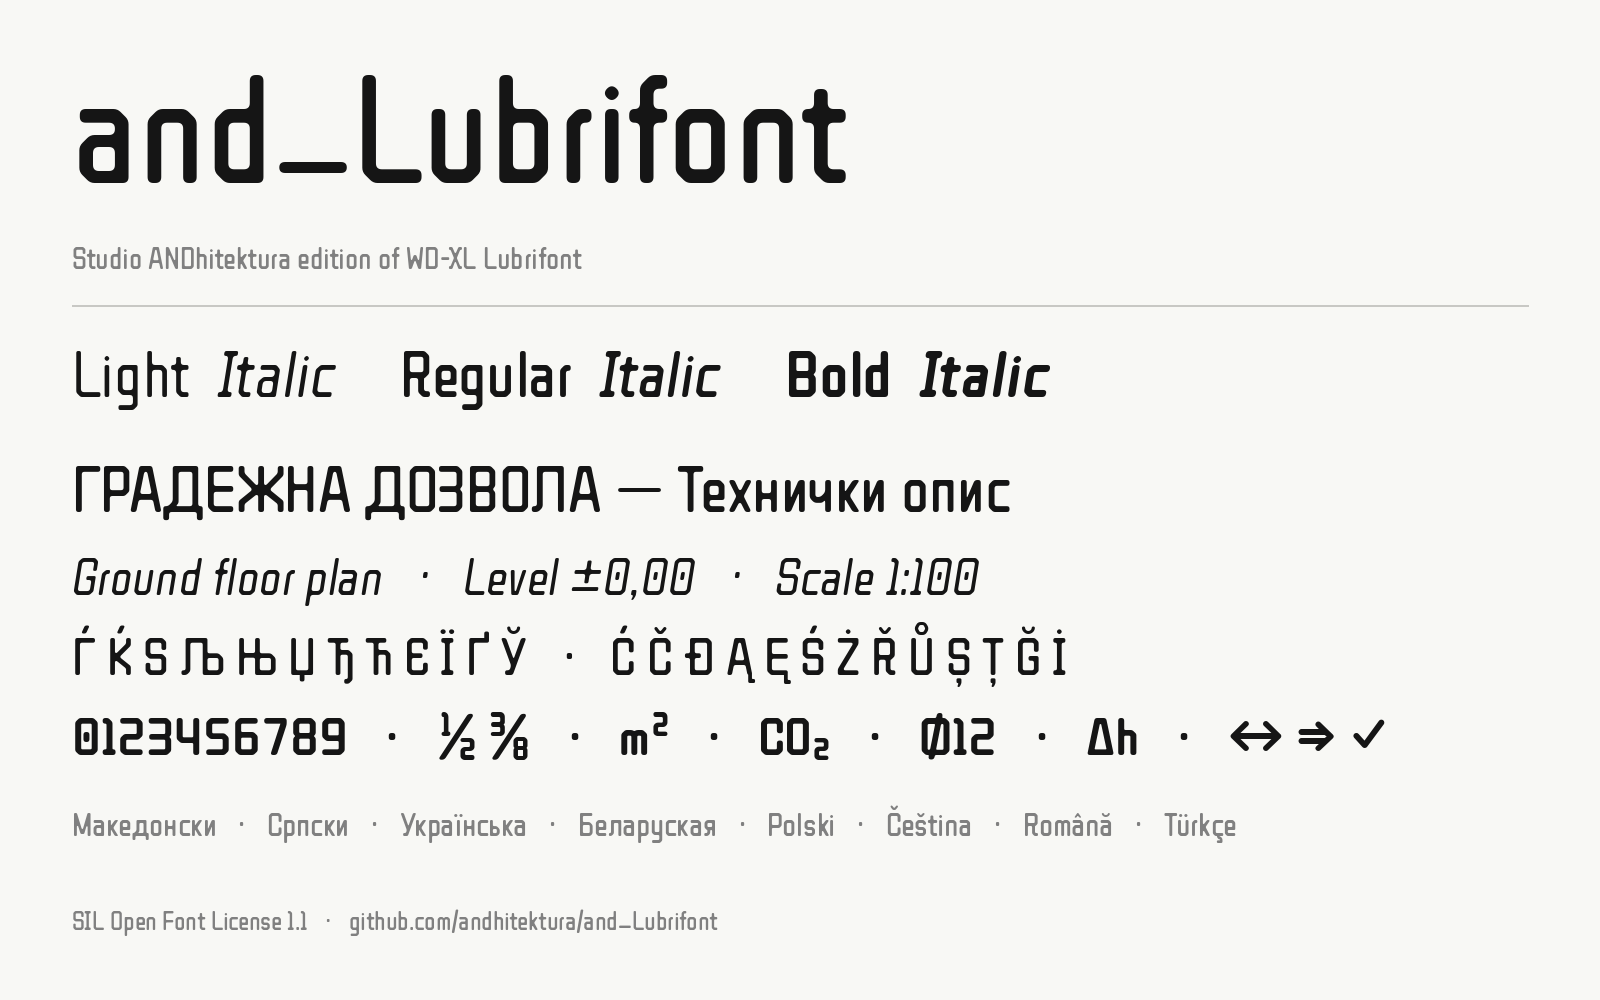
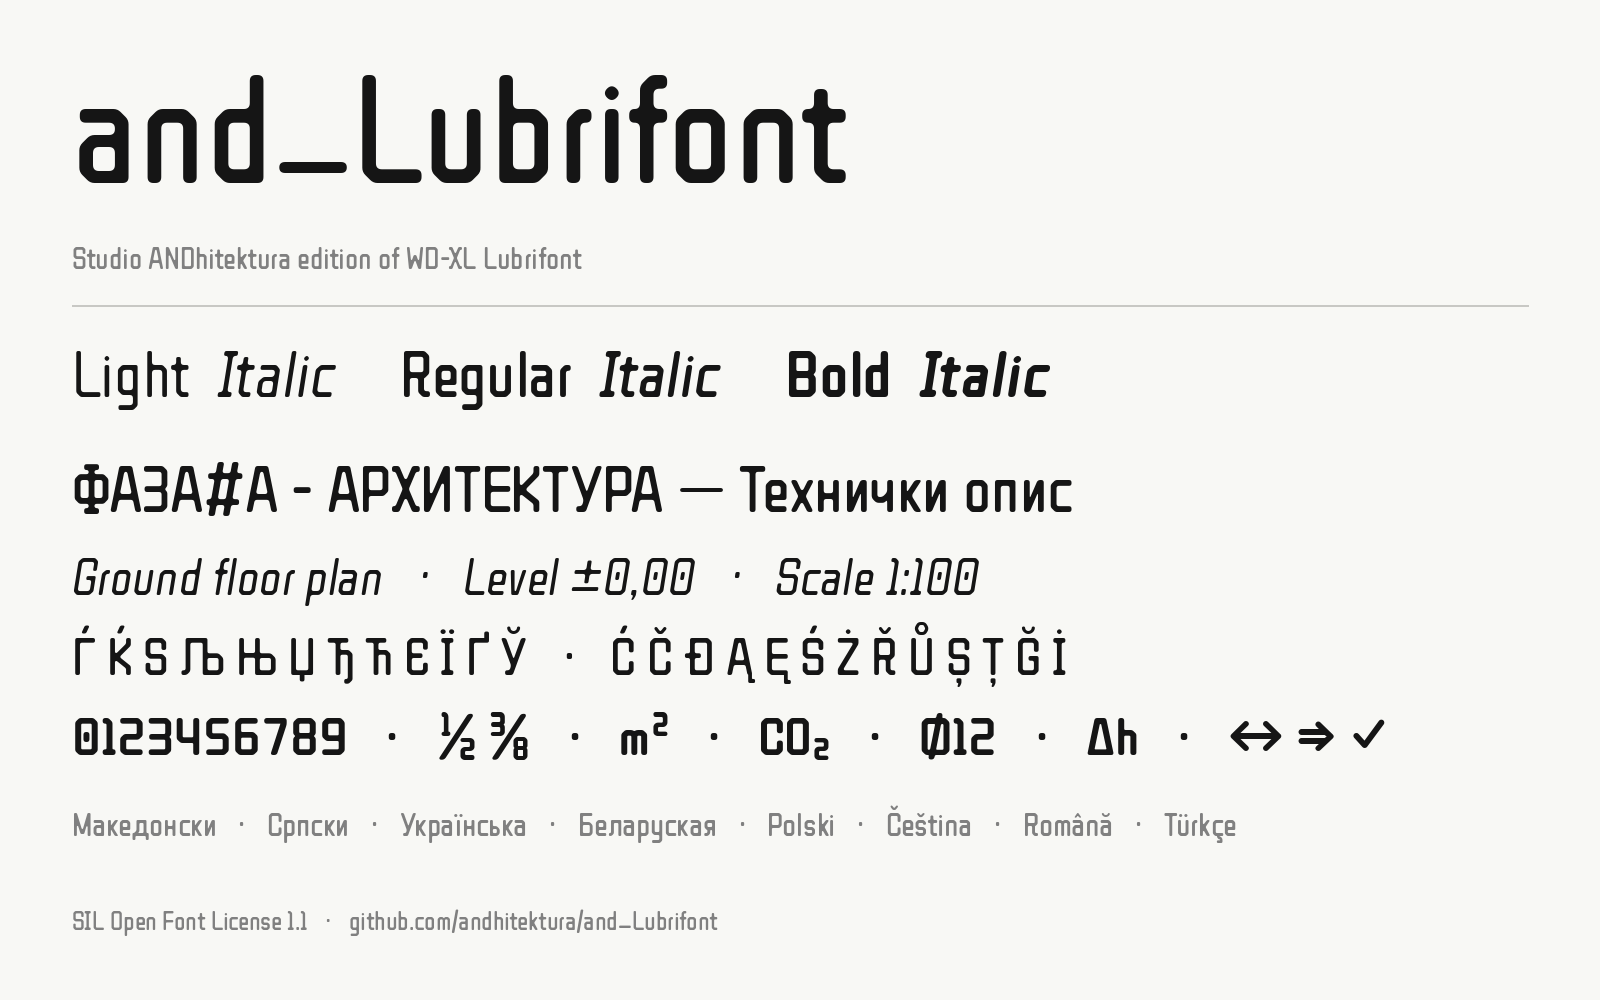
Specimen: "ФАЗА#A - АРХИТЕКТУРА" instead of "ГРАДЕЖНА ДОЗВОЛА"
Claude-Session: https://claude.ai/code/session_018pCtkYHVwsveDFWZrVX9eK

Changed region(s): [[0.0312, 0.465, 0.6875, 0.527]]

diff --git a/sources/scripts/make_specimen.py b/sources/scripts/make_specimen.py
@@ -36,7 +36,7 @@ def main():
         d.text((x, y), label, font=f, fill=INK)
         x += d.textlength(label, font=f) + (28 if "Italic" not in style else 64)
     lines = [
-        ("Regular", 64, "ГРАДЕЖНА ДОЗВОЛА — Технички опис", 450),
+        ("Regular", 64, "ФАЗА#A - АРХИТЕКТУРА — Технички опис", 450),
         ("LightItalic", 52, "Ground floor plan  ·  Level ±0,00  ·  Scale 1:100", 545),
         ("Regular", 52, "Ѓ Ќ Ѕ Љ Њ Џ Ђ Ћ Є Ї Ґ Ў  ·  Ć Č Đ Ą Ę Ś Ż Ř Ů Ș Ț Ğ İ", 625),
         ("Bold", 52, "0123456789  ·  ½ ⅜  ·  m²  ·  CO₂  ·  ⌀12  ·  ∆h  ·  ↔ ⇒ ✓", 705),
